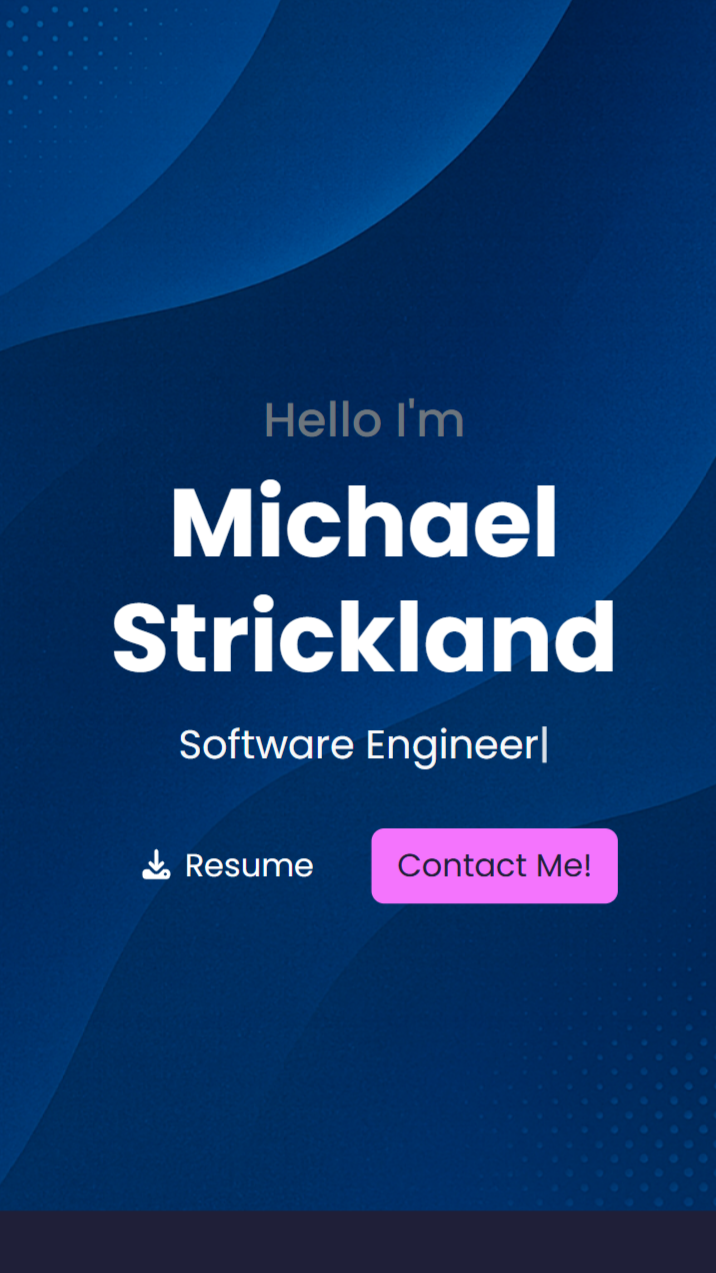
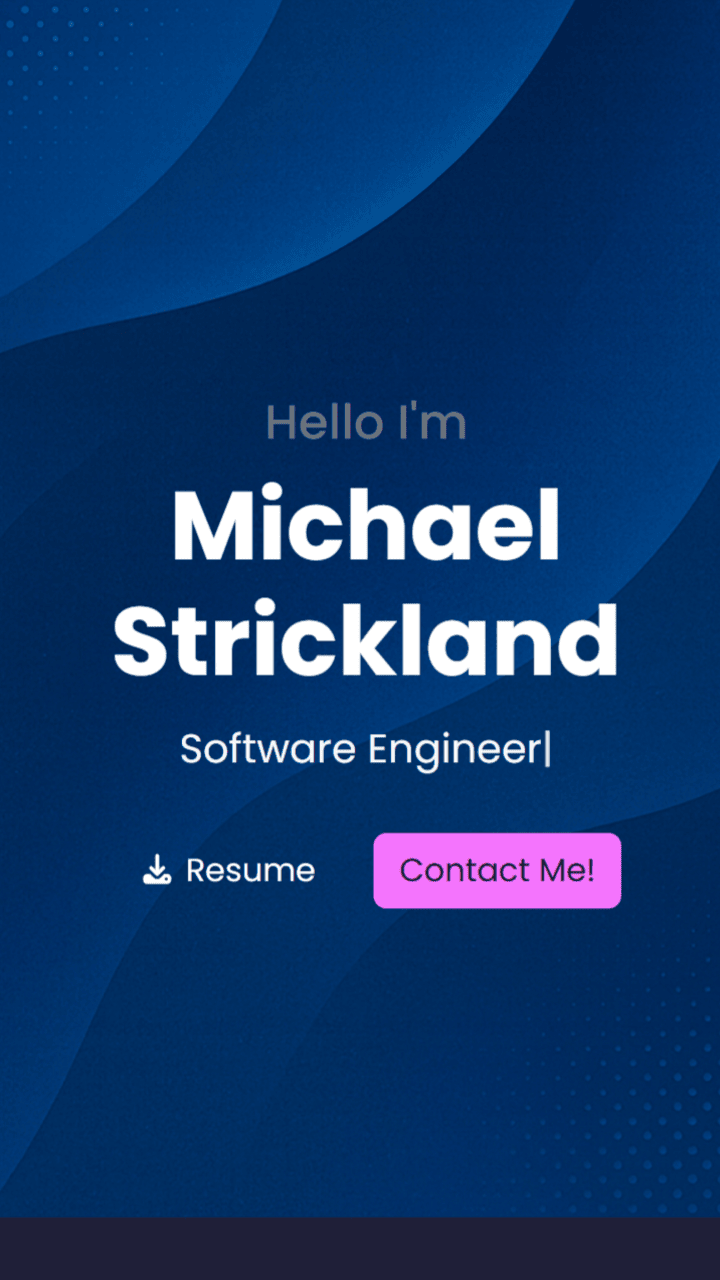
changed color scheme and provided demos for projects

diff --git a/michael-portfolio/src/components/portfolio/Portfolio.jsx b/michael-portfolio/src/components/portfolio/Portfolio.jsx
@@ -1,27 +1,29 @@
 import "./portfolio.css";
-import IMAGE1 from "../../assets/myself.jpg";
+import BitBox_Thumbnail from "../../assets/bitbox.png"
+import Classroom1b_Thumbnail from "../../assets/classroom1b.png"
+import BrilliantQR_Thumbnail from "../../assets/brilliantqr.png"
 
 const data = [
   {
     id: 1,
-    image: IMAGE1,
+    image: BitBox_Thumbnail,
     title: "BitBox - Board Game Identifier",
     github: "https://github.com/Mstric27/BitBox",
     demo: "https://www.youtube.com/watch?v=NcveBjLxhbw",
   },
   {
     id: 2,
-    image: IMAGE1,
+    image: Classroom1b_Thumbnail,
     title: "Classroom1b",
     github: "",
-    demo: "",
+    demo: "https://youtu.be/OYbQwuoWabE",
   },
   {
     id: 2,
-    image: IMAGE1,
+    image: BrilliantQR_Thumbnail,
     title: "BrilliantQR",
     github: "",
-    demo: "",
+    demo: "https://youtu.be/Dpz9w_azVqQ",
   }
 ];
 
@@ -41,21 +43,23 @@ const Portfolio = () => {
                 <div className="card-body">
                   <h5 className="card-title">{title}</h5>
                   <div className="d-flex gap-2">
-                    <a
-                      href={github}
-                      className="btn btn-outline-primary btn-sm"
-                      target="_blank"
-                      rel="noreferrer"
-                    >
-                      GitHub
-                    </a>
+                    {github && github.trim() !== "" && (
+                      <a
+                        href={github}
+                        className="btn btn-outline-primary btn-sm"
+                        target="_blank"
+                        rel="noreferrer"
+                      >
+                        GitHub
+                      </a>
+                    )}
                     <a
                       href={demo}
                       className="btn btn-primary btn-sm"
                       target="_blank"
                       rel="noreferrer"
                     >
-                      Live Demo
+                      Demo
                     </a>
                   </div>
                 </div>

diff --git a/michael-portfolio/src/index.css b/michael-portfolio/src/index.css
@@ -2,14 +2,14 @@
 
 /* ================= THEME COLORS ================= */
 :root {
-  --bs-body-bg: #1f1f38;                     /* background */
-  --bs-body-color: #fff;                     /* default text */
-  --bs-primary: #f474fd;                     /* primary (pink/purple) */
-  --bs-primary-rgb: 244, 116, 253;
-  --bs-secondary: #2c2c6c;                   /* secondary bg variant */
-  --bs-light: rgba(255, 255, 255, 0.6);      /* light text */
-  --bs-dark: #1f1f38;
-  --transition: all 0.4s ease;
+  --bs-body-bg: #0f1d37;                     /* deep navy base */
+  --bs-body-color: #e0e6f0;                  /* soft off-white/blue-gray text */
+  --bs-primary: #3a7bd5;                     /* calm medium blue */
+  --bs-primary-rgb: 58, 123, 213;
+  --bs-secondary: #1c2f4a;                   /* muted dark blue for contrast */
+  --bs-light: rgba(255, 255, 255, 0.55);     /* gentle light text */
+  --bs-dark: #0f1d37;                        /* consistent base */
+  --transition: all 0.3s ease;
 }
 
 body {

diff --git a/michael-portfolio/src/components/portfolio/portfolio.css b/michael-portfolio/src/components/portfolio/portfolio.css
@@ -14,18 +14,9 @@
 .portfolio__item-image {
   border-radius: 0.75rem;
   overflow: hidden;
-  height: 200px;
   display: block;
-}
 
-.portfolio__item-image img {
-  width: 100%;
-  height: 100%;
-  object-fit: cover;
-  filter: grayscale(100%);
-  transition: all 0.5s ease-in-out;
-}
-
-.portfolio__item-image:hover img {
-  filter: grayscale(0%);
+  aspect-ratio: 16 / 9; /* or 1 / 1 for square, 4 / 3, etc. */
+  height: auto;         /* let height be determined by ratio */
+  width: 100%;          /* image scales responsively */
 }
